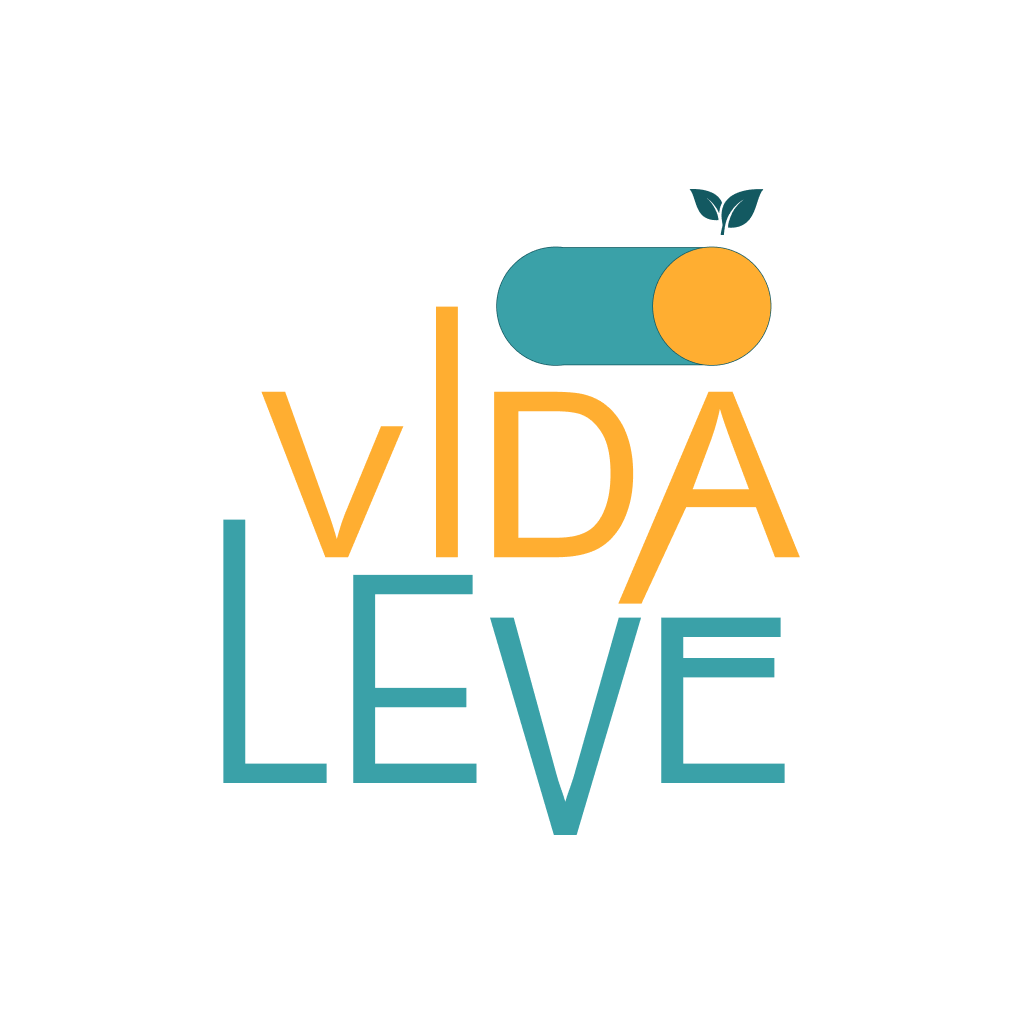
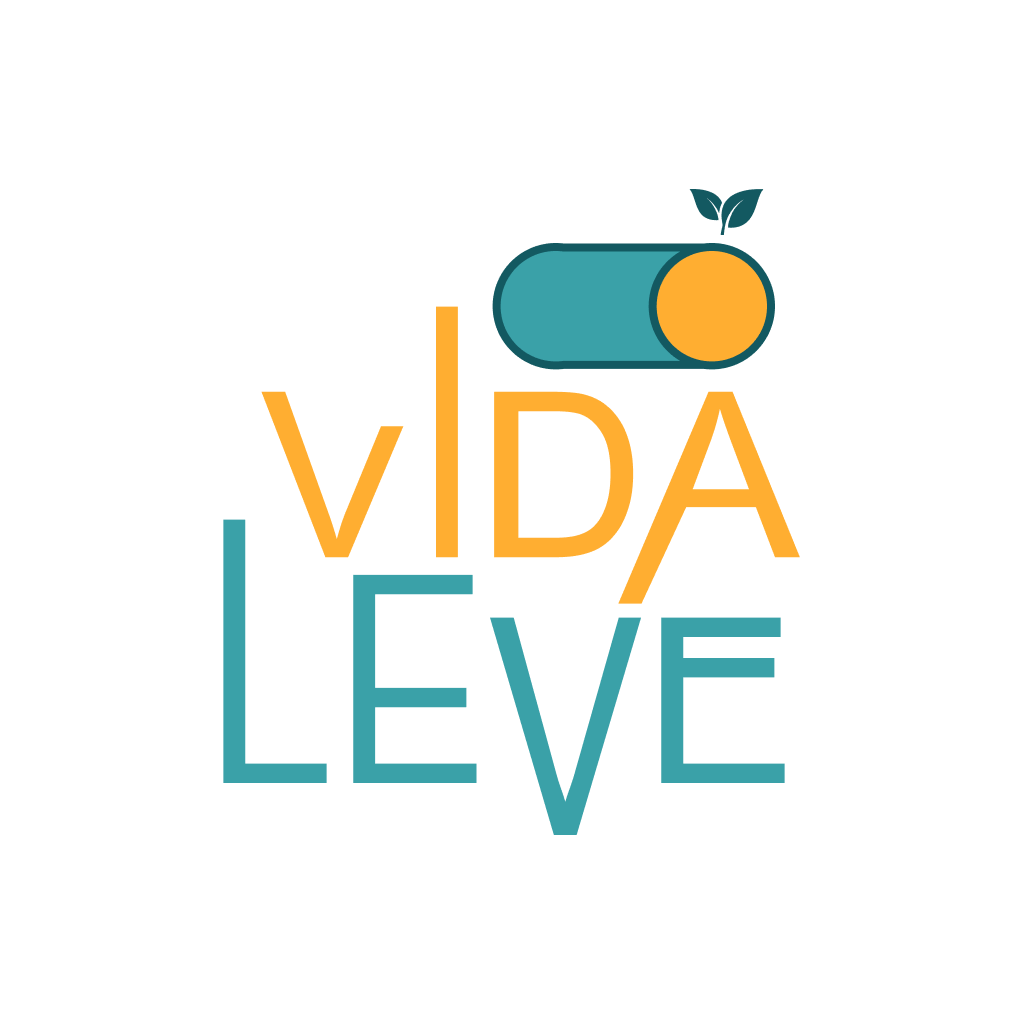
chore: alteração do nome da rota Home para Welcome e modificação dos ícones

Changed region(s): [[0.4688, 0.2188, 0.75, 0.375], [0.75, 0.2812, 0.7812, 0.3125], [0.7188, 0.25, 0.75, 0.2812]]

diff --git a/frontend/src/Navigation.tsx b/frontend/src/Navigation.tsx
@@ -1,6 +1,5 @@
 import { NavigationContainer } from "@react-navigation/native";
 import { createNativeStackNavigator } from "@react-navigation/native-stack";
-import AuthHomeScreen from "./screens/auth/home/AuthHomeScreen";
 import LoginScreen from "./screens/auth/login/LoginScreen";
 import SignupScreen from "./screens/auth/signup/SignupScreen";
 import PlanSelectionScreen from "./screens/onboarding/planSelection/PlanSelectionScreen";
@@ -8,6 +7,7 @@ import GoalGuidanceScreen from "./screens/onboarding/goalGuidance/GoalGuidanceSc
 import ProgressFormScreen from "./screens/onboarding/progressForm/ProgressFormScreen";
 import ProfileFormScreen from "./screens/onboarding/profileForm/ProfileFormScreen";
 import ConnectionErrorScreen from "./screens/error/connectionError/ConnectionErrorScreen";
+import WelcomeScreen from "./screens/auth/welcome/WelcomeScreen";
 
 const Stack = createNativeStackNavigator();
 
@@ -15,7 +15,7 @@ const Navigation = () => {
   return (
     <NavigationContainer>
       <Stack.Navigator
-        initialRouteName="Auth/Home"
+        initialRouteName="Auth/Welcome"
         screenOptions={{
           animation: "simple_push",
           animationDuration: 300,
@@ -25,8 +25,8 @@ const Navigation = () => {
         }}
       >
         <Stack.Screen
-          name="Auth/Home"
-          component={AuthHomeScreen}
+          name="Auth/Welcome"
+          component={WelcomeScreen}
           options={{ headerShown: false }}
         />
         <Stack.Screen

diff --git a/frontend/src/screens/auth/welcome/WelcomeScreen.tsx b/frontend/src/screens/auth/welcome/WelcomeScreen.tsx
@@ -5,11 +5,11 @@ import { SubmitButton } from "../../../components/buttons/SubmitButton";
 import { Image } from "react-native";
 import { BigLogoSVG } from "../../../components/logos/BigLogoSVG";
 
-type AuthHomeProps = {
+type WelcomeScreenProps = {
   navigation: NavigationProp<any>;
 };
 
-const AuthHomeScreen = ({ navigation }: AuthHomeProps) => {
+const WelcomeScreen = ({ navigation }: WelcomeScreenProps) => {
   return (
     <ScreenWrapper statusBarColor="transparent">
       <ScrollView
@@ -59,7 +59,7 @@ const AuthHomeScreen = ({ navigation }: AuthHomeProps) => {
   );
 };
 
-export default AuthHomeScreen;
+export default WelcomeScreen;
 
 const styles = StyleSheet.create({
   scrollView: {

diff --git a/frontend/src/libs/axios/Request.ts b/frontend/src/libs/axios/Request.ts
@@ -3,9 +3,9 @@ import { HttpError } from "../../@core/errors/httpError";
 import { ConnectionError } from "../../@core/errors/connectionError";
 
 const api = axios.create({
-  // baseURL: "http://192.168.0.120:3000",
+  baseURL: "http://192.168.0.117:3000",
   // baseURL: "http://localhost:3000/",
-  baseURL: "https://vida-leve-h7ug.onrender.com",
+  // baseURL: "https://vida-leve-h7ug.onrender.com",
   timeout: 5000,
 });
 
